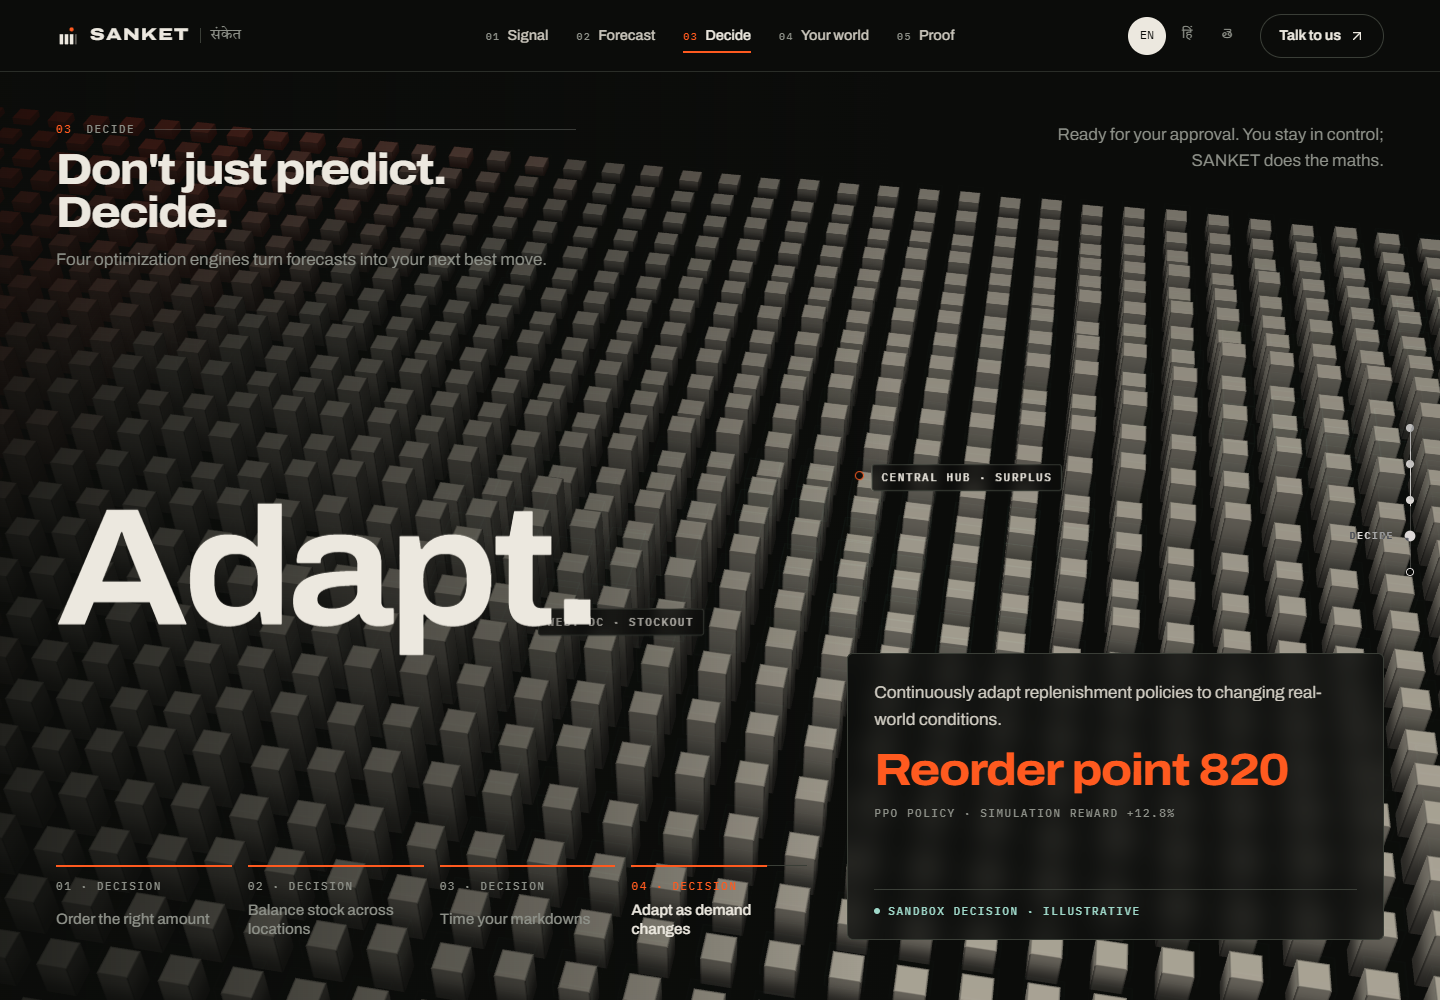
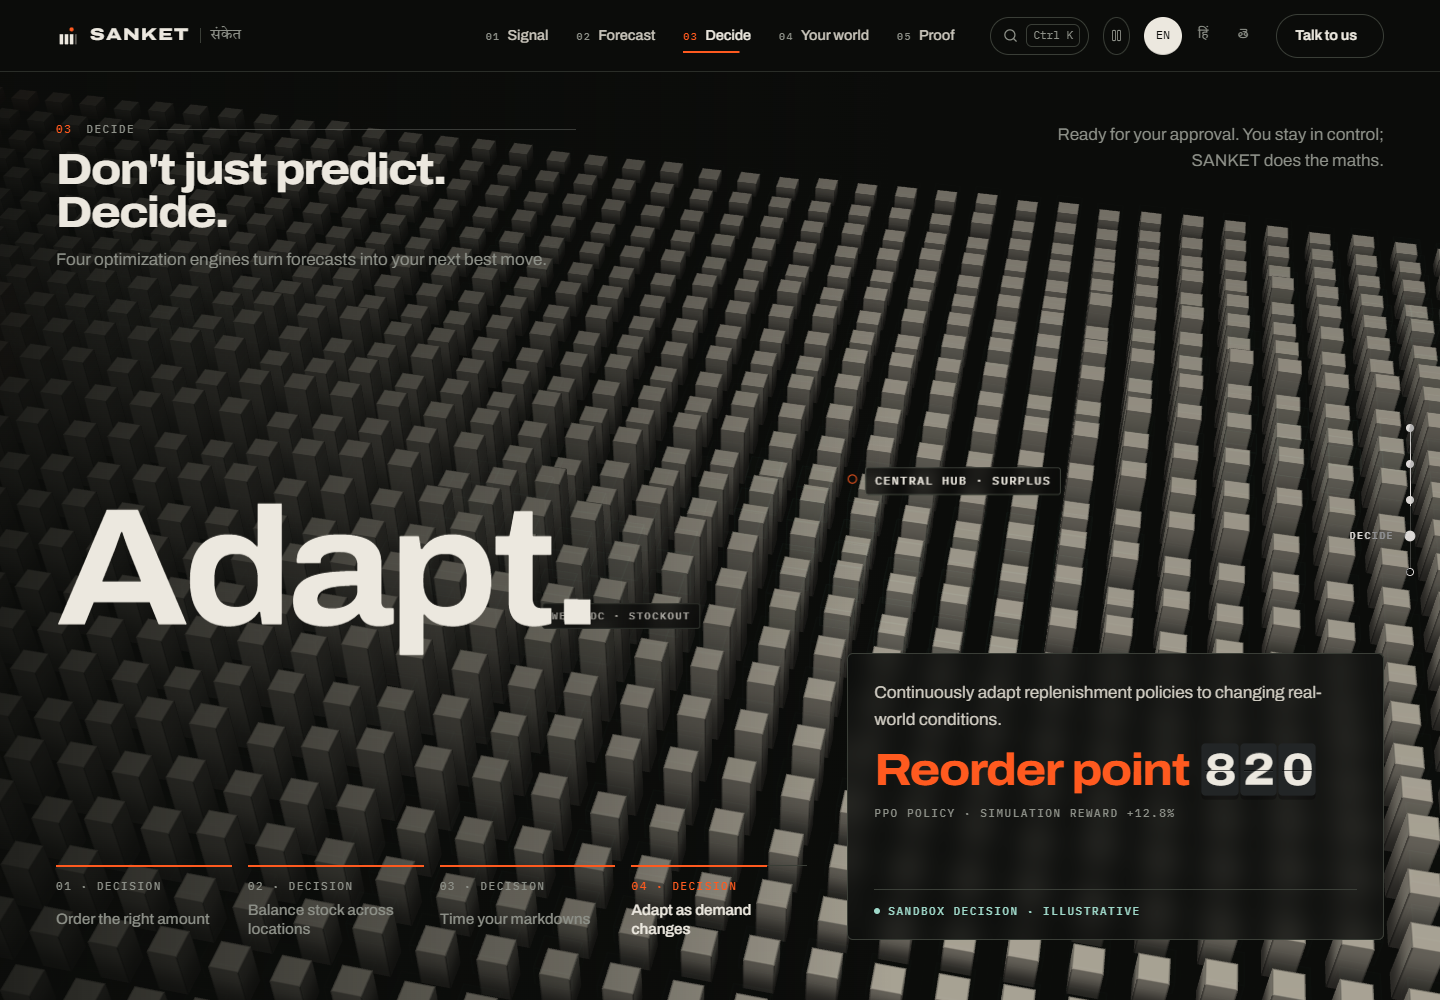
docs: validate the projection, motion and spatial pass; QA screenshots
- Phones: the hero's explore button is hidden (the dock carries it); the rule
  lost to .btn-text at equal specificity.
- Fallback poster re-rendered from the live scene (now with the faint projection).
- README: validation for 23 October (build budgets, 29-group check on dev and
  preview, axe, lab A/B against 95c153f, what is not verified).
- QA screenshots at 1440 / 768 / 390 in en, hi, te and calm mode: qa/spatial/.

diff --git a/src/styles/shell.css b/src/styles/shell.css
@@ -815,7 +815,7 @@
   visibility: hidden;
 }
 @media (max-width: 699px) {
-  .hero-explore {
+  .hero-ctas .hero-explore {
     display: none;
   }
 }

diff --git a/README.md b/README.md
@@ -113,6 +113,14 @@ npx hyperframes@0.8.156 preview --background
 
 `brag-output/brag.mp4`, `brag-output/brag.jpg`, and `brag-output/share-copy.txt` are the delivery artifacts. Manrope is from the Google Fonts repository under its OFL license. Kenney SFX are CC0; upstream Brag is MIT.
 
+## Validation (23 October 2026)
+
+- `npm run build` passes. Initial JS 148.8 kB gzip (index 52.6 + motion 50.8 + react 45.4; budget 150), CSS 13.9 kB gzip (budget 14). Lazy: field 144 kB, palette 5.6 kB (+0.9 kB CSS), explore 4.7 kB (+1.5 kB CSS), OrbitControls 4.6 kB. The Quick Look model (1.7 MB) loads only when tapped.
+- `npm run check` passes against the dev server and the production preview: 29 groups, including everything below plus the pause control, palette, dock, reading progress, contact context, counters, detents, toast, projector slides, sheen, explore (keyboard, announcements, timeline, focus return), the levelling title, mocked WebXR AR / Quick Look support, the USDZ package, and axe (WCAG 2.0–2.2 A/AA; en/hi/te at 1440, en at 390; page, palette, phone index and explore dialog): no issues of any impact.
+- Lab A/B against `95c153f` (`npm run perf`, hardware GPU, 2–3 runs each; `qa/perf/spatial-ab*.log`): CLS unchanged (0.005 mobile, 0.002 desktop); worst interaction median 176 ms mobile 1× and 56–104 ms desktop; hero and Decide frame times within run-to-run noise; first paint 50–90 ms later (the extra ~5 kB JS / 2 kB CSS). Runs at 4× CPU vary too much between runs to compare. The first A/B found a 0.055 mobile CLS, a whole-page re-render at field boot and doubled projector uploads; all fixed (commit `da1353e`).
+- Browser review at 1440, 768 and 390 px in English, Hindi and Telugu, plus calm mode: `qa/spatial/`.
+- Not verified here: placing the field with a real ARCore phone, Quest / Vision Pro or iPhone Quick Look; haptics on a physical Android phone; screen-reader walkthroughs beyond axe and the announced explore readouts.
+
 ## Validation (19 October 2026)
 
 - `npm run build` passes (TypeScript and Vite). Initial JS is about 143 kB gzip plus 12 kB of CSS; three.js is a separate lazy chunk of about 138 kB gzip.
